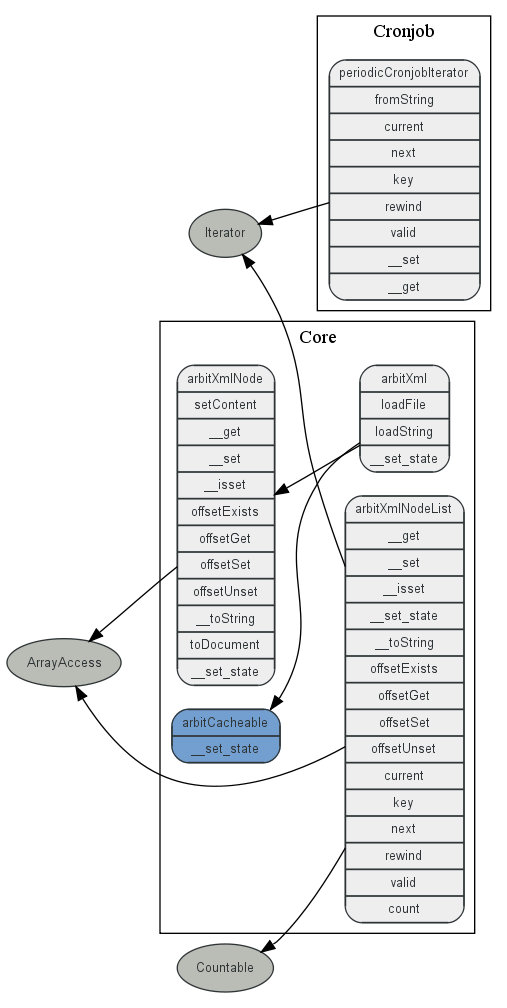
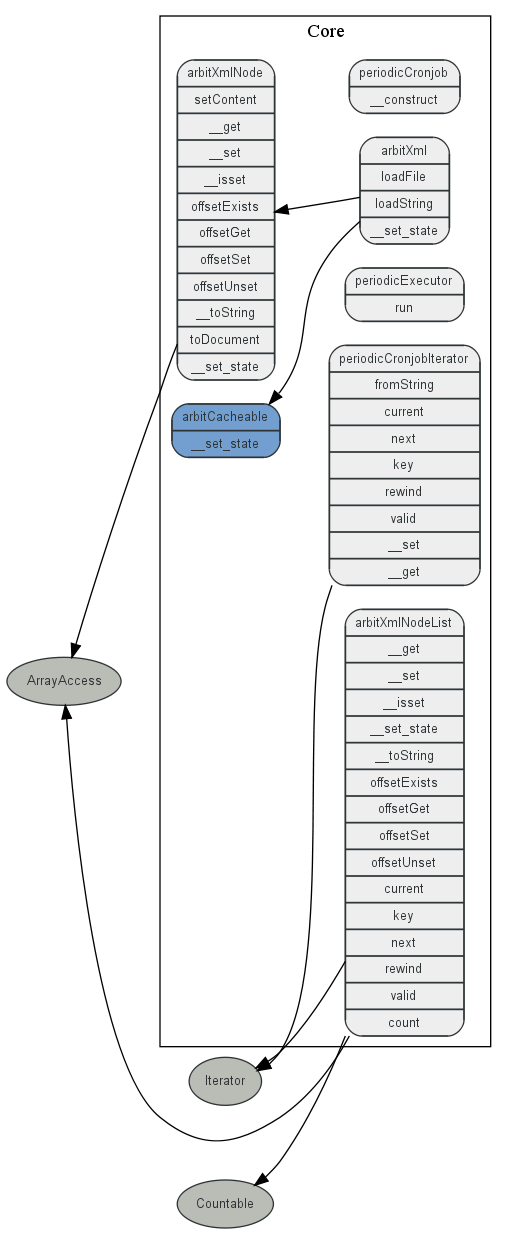
- Implemented: Container for cronjob items

diff --git a/src/classes/autoload.php b/src/classes/autoload.php
@@ -1,37 +1,39 @@
 <?php
 /**
- * arbit autoload file
+ * Autoload file
  *
- * This file is part of arbit.
+ * This file is part of periodic
  *
- * arbit is free software; you can redistribute it and/or modify
- * it under the terms of the GNU General Public License as published by
- * the Free Software Foundation; version 3 of the License.
+ * periodic is free software; you can redistribute it and/or modify it under
+ * the terms of the GNU Lesser General Public License as published by the Free
+ * Software Foundation; version 3 of the License.
  *
- * arbit is distributed in the hope that it will be useful,
- * but WITHOUT ANY WARRANTY; without even the implied warranty of
- * MERCHANTABILITY or FITNESS FOR A PARTICULAR PURPOSE.  See the
- * GNU General Public License for more details.
+ * periodic is distributed in the hope that it will be useful, but WITHOUT ANY
+ * WARRANTY; without even the implied warranty of MERCHANTABILITY or FITNESS
+ * FOR A PARTICULAR PURPOSE.  See the GNU Lesser General Public License for
+ * more details.
  *
- * You should have received a copy of the GNU General Public License
- * along with arbit; if not, write to the Free Software
- * Foundation, Inc., 51 Franklin St, Fifth Floor, Boston, MA  02110-1301  USA
+ * You should have received a copy of the GNU Lesser General Public License
+ * along with periodic; if not, write to the Free Software Foundation, Inc., 51
+ * Franklin St, Fifth Floor, Boston, MA  02110-1301  USA
  *
  * @package Core
- * @version $Revision: 962 $
- * @license http://www.gnu.org/licenses/gpl-3.0.txt GPL
+ * @version $Revision: 977 $
+ * @license http://www.gnu.org/licenses/lgpl-3.0.txt LGPL
  */
 
 /*
  * This array is autogenerated and topoligically sorted. Do not change anything
- * in here, but just run the following script in the trunk/ directory.
+ * in here, but just run the following script:
  *
  * # scripts/gen_autoload_files.php
  */
 return array(
+    'periodicCronjob'                 => 'cronjob.php',
     'periodicCronjobIterator'         => 'cronjobIterator.php',
     'periodicAttributeException'      => 'exceptions.php',
     'periodicInvalidCronjobException' => 'exceptions.php',
+    'periodicExecutor'                => 'executor.php',
     'arbitXmlNode'                    => 'external/xml/node.php',
     'arbitCacheable'                  => 'external/xml/cacheable.php',
     'arbitXml'                        => 'external/xml/document.php',

diff --git a/tests/cronjob/cronjob.php b/tests/cronjob/cronjob.php
@@ -1,0 +1,74 @@
+<?php
+/**
+ * This file is part of Periodic.
+ *
+ * Periodic is free software; you can redistribute it and/or modify it under
+ * the terms of the GNU Lesser General Public License as published by the
+ * Free Software Foundation; version 3 of the License.
+ *
+ * Periodic is distributed in the hope that it will be useful, but WITHOUT
+ * ANY WARRANTY; without even the implied warranty of MERCHANTABILITY or
+ * FITNESS FOR A PARTICULAR PURPOSE.  See the GNU Lesser General Public
+ * License for * more details.
+ *
+ * You should have received a copy of the GNU Lesser General Public License 
+ * along with Periodic; if not, write to the Free Software Foundation, Inc., 51
+ * Franklin St, Fifth Floor, Boston, MA  02110-1301  USA
+ *
+ * @package Periodic
+ * @subpackage Cronjob
+ * @version $Revision$
+ * @license http://www.gnu.org/licenses/lgpl-3.0.txt LGPLv3
+ */
+
+class periodicCronjobTests extends PHPUnit_Framework_TestCase
+{
+    public static function suite()
+    {
+        return new PHPUnit_Framework_TestSuite( __CLASS__ );
+    }
+
+    public function testSimpleCronLine()
+    {
+        $cronjob = new periodicCronjob( '*/15 * * * * task' );
+        $this->assertSame( null, $cronjob->group );
+        $this->assertSame( 'task', $cronjob->task );
+    }
+
+    public function testGroupedTaskCronLine()
+    {
+        $cronjob = new periodicCronjob( '*/15 * * * * group:task' );
+        $this->assertSame( 'group', $cronjob->group );
+        $this->assertSame( 'task', $cronjob->task );
+    }
+
+    public static function getInvalidCronLines()
+    {
+        return array(
+            array( '' ),
+            array( '* * * * test?' ),
+            array( '# * * * * * foo' ),
+            array( '* * * * * multiple:groups:task' ),
+            array( '* * * * * * to_many_stars' ),
+        );
+    }
+
+    /**
+     * @dataProvider getInvalidCronLines
+     */
+    public function testInvalidCronLines( $line )
+    {
+        try
+        {
+            $cronjob = new periodicCronjob( $line );
+            $this->fail( 'Expected periodicInvalidCronjobException.' );
+        }
+        catch ( periodicInvalidCronjobException $e )
+        {
+            $this->assertEquals(
+                'Invalid cron table line: ' . $line,
+                $e->getMessage()
+            );
+        }
+    }
+}

diff --git a/src/classes/cronjob.php b/src/classes/cronjob.php
@@ -1,0 +1,81 @@
+<?php
+/**
+ * Autoload file
+ *
+ * This file is part of periodic
+ *
+ * periodic is free software; you can redistribute it and/or modify it under
+ * the terms of the GNU Lesser General Public License as published by the Free
+ * Software Foundation; version 3 of the License.
+ *
+ * periodic is distributed in the hope that it will be useful, but WITHOUT ANY
+ * WARRANTY; without even the implied warranty of MERCHANTABILITY or FITNESS
+ * FOR A PARTICULAR PURPOSE.  See the GNU Lesser General Public License for
+ * more details.
+ *
+ * You should have received a copy of the GNU Lesser General Public License
+ * along with periodic; if not, write to the Free Software Foundation, Inc., 51
+ * Franklin St, Fifth Floor, Boston, MA  02110-1301  USA
+ *
+ * @package Core
+ * @version $Revision: 977 $
+ * @license http://www.gnu.org/licenses/lgpl-3.0.txt LGPL
+ */
+
+/**
+ * Cronjob
+ *
+ * Class containing all information relevant to a single cronjob item.
+ */
+class periodicCronjob
+{   
+    /**
+     * Cronjob iterator containing the relevant time information
+     * 
+     * @var periodicCronjobIterator
+     */
+    public $iterator;
+
+    /**
+     * Name of task
+     * 
+     * @var string
+     */
+    public $task;
+
+    /**
+     * Name of task group, or null, if no group has been assigned.
+     * 
+     * @var mixed
+     */
+    public $group;
+
+    /**
+     * Construct from a common line in a crontable
+     * 
+     * @param string $line 
+     * @return void
+     */
+    public function __construct( $line )
+    {
+        if ( !preg_match( '(^
+            (?!>[#;])
+            (\\S+)\\s+(\\S+)\\s+(\\S+)\\s+(\\S+)\\s+(\\S+)\\s+
+            (?:(?P<group>[^:\\s]+):)?(?P<task>[^:\\s]+)\\s*$
+        )x', $line, $matches ) )
+        {
+            throw new periodicInvalidCronjobException( 'Invalid cron table line: ' . $line );
+        }
+
+        $this->iterator = new periodicCronjobIterator( array(
+            $matches[1],
+            $matches[2],
+            $matches[3],
+            $matches[4],
+            $matches[5],
+        ) );
+        $this->task  = $matches['task'];
+        $this->group = empty( $matches['group'] ) ? null : $matches['group'];
+    }
+}
+

diff --git a/tests/cronjob_suite.php b/tests/cronjob_suite.php
@@ -22,6 +22,7 @@ if ( !defined( 'PERIODIC_TEST' ) )
  * Cronjob tests
  */
 require 'cronjob/iterator.php';
+require 'cronjob/cronjob.php';
 
 /**
 * Test suite for Periodic cronjob
@@ -39,6 +40,7 @@ class periodicCronjobTestSuite extends PHPUnit_Framework_TestSuite
         $this->setName( 'Cronjob suite' );
 
         $this->addTest( periodicCronjobIteratorTests::suite() );
+        $this->addTest( periodicCronjobTests::suite() );
     }
 
     /**
